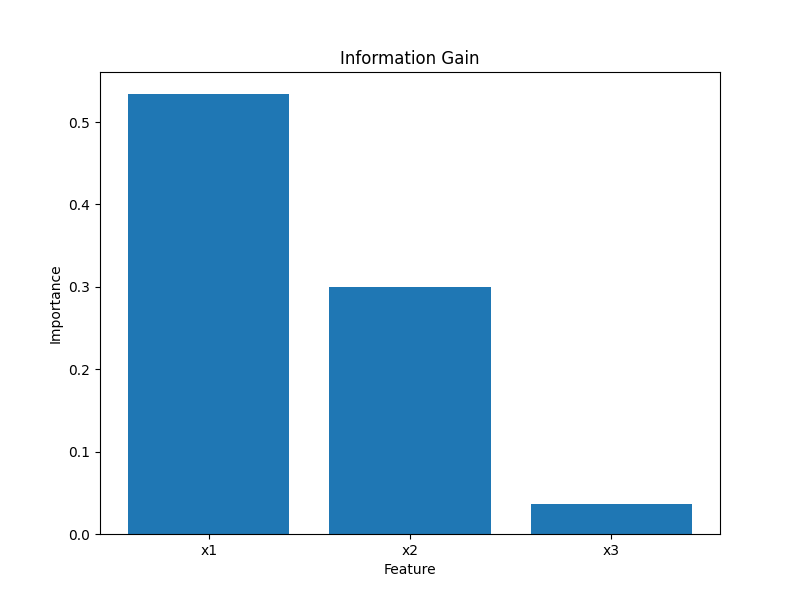
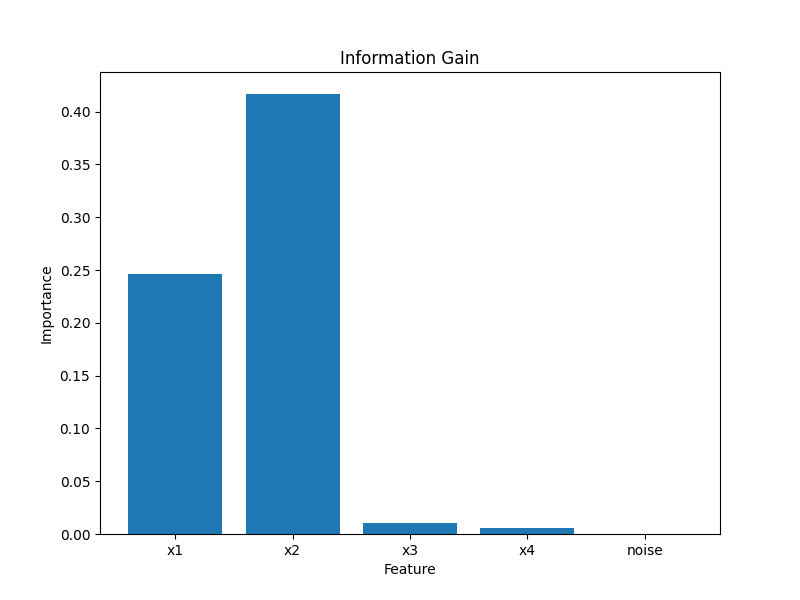
add interaction

diff --git a/README.md b/README.md
@@ -1,4 +1,5 @@
 # Feature Importance
+exact model: $$y=x_1 + x_2^2 + x3 \times x4$$
 ![Random Forest](figs/random_forest.png)
 ![Information Gain](figs/information_gain.png)
 ![Neural Net](figs/neural_net.png)
